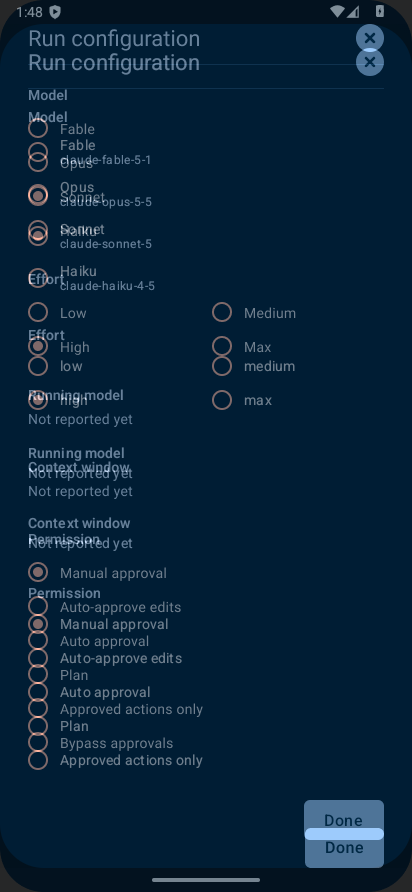
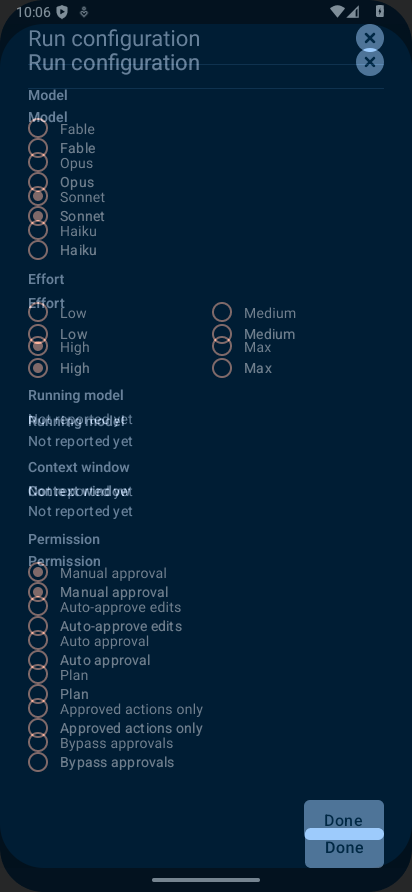
test(design): recapture Run configuration against 600:1694 (#1497)

diff --git a/app/src/androidTest/assets/design-1220/thread/index.md b/app/src/androidTest/assets/design-1220/thread/index.md
@@ -276,23 +276,26 @@ verdicts apply to each of those frames, which list only what differs.
 - **Capture:** `run-configuration.png` (412x892, 1.0)
 - **Side-by-side:** `run-configuration-side-by-side.png`
 - **Overlay:** `run-configuration-overlay.png`
-- **Verdict:** mismatch
+- **Verdict:** mismatch (inset sheet only, #1496)
 - Four-model menu with real resolved identifiers and auto mode, Sonnet at high effort, Manual approval. No "Default"
   option in any spelling (asserted with a case-insensitive substring match).
+- **Recaptured for #1497** with `runConfigurationAndReaderAt412By892` on `pixel8Api35`, `requireRealSystemBars=true`
+  (`1497-results.xml`, 1 executed, 0 failures), and compared again with `scripts/design-compare.py`. Only
+  `run-configuration*.png` and `.txt` were replaced; `markdown-reader.png` keeps its #1432 capture.
 
 | Aspect | Verdict |
 |---|---|
-| Geometry | mismatch: each model row is two lines tall, so Effort and the sections below sit lower, and with the inset sheet "Bypass approvals" falls below the visible area (it scrolls into view). The sheet ends above the navigation bar with rounded bottom corners; the frame runs it to the screen's bottom |
+| Geometry | match apart from the inset: each model row is one line, so Effort sits at its frame position plus the 24 px bar shift and the sections below stay within 2 px of it, and "Bypass approvals" is in view. The sheet ends above the navigation bar with rounded bottom corners; the frame runs it to the screen's bottom |
 | Padding | match |
 | Spacing | match: Permission heading and row spacing |
-| Typography | mismatch: a resolved-identifier second line under every model ("claude-sonnet-5"); effort options read "low/medium/high/max" where the frame reads "Low/Medium/High/Max" |
+| Typography | match: model rows show the label only, and effort options read "Low/Medium/High/Max" |
 | Colour | match: radios, labels and Done |
 | Borders | match: header divider |
 | Radii | mismatch: rounded bottom sheet corners (see geometry); Done matches |
 | Icon paths | match: close X, radios |
 | Component state | match: Permission section with the frame's six rows in its order, Manual approval selected |
 
-- **Routed:** #1497 (model rows, effort case), #1496 (the `MobileModalShell` inset shared with the task panel)
+- **Routed:** #1496 (the `MobileModalShell` inset shared with the task panel). #1497's model rows and effort case are fixed
 
 ### Markdown Reader — `553:2574`
 
